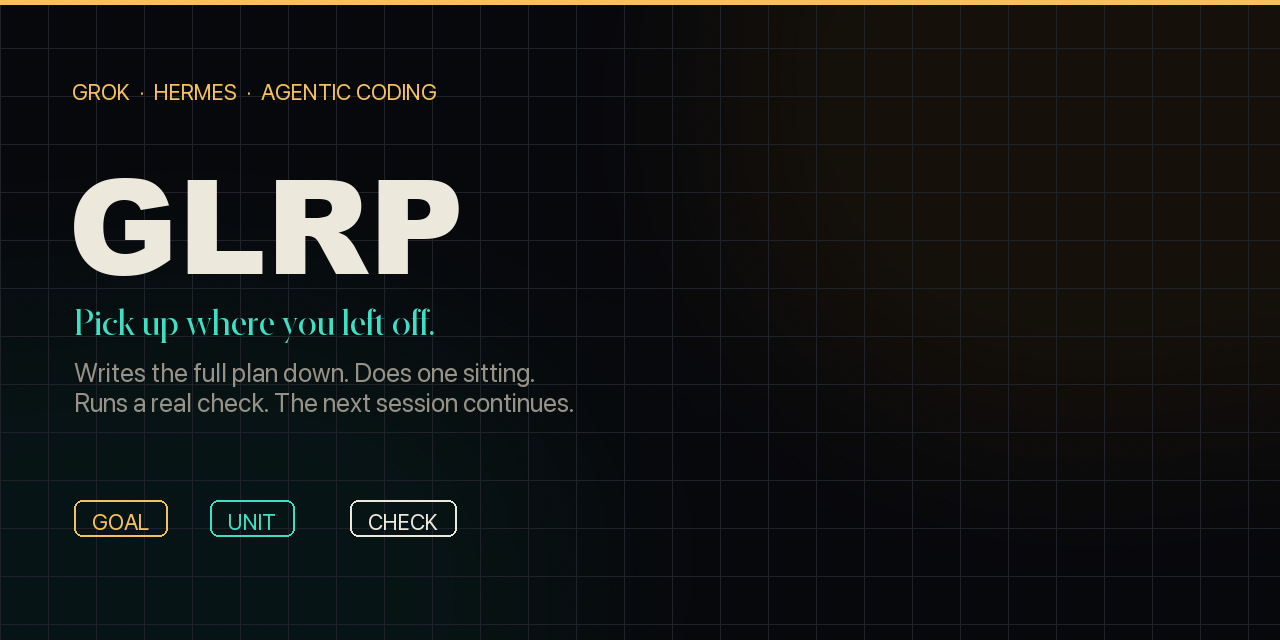
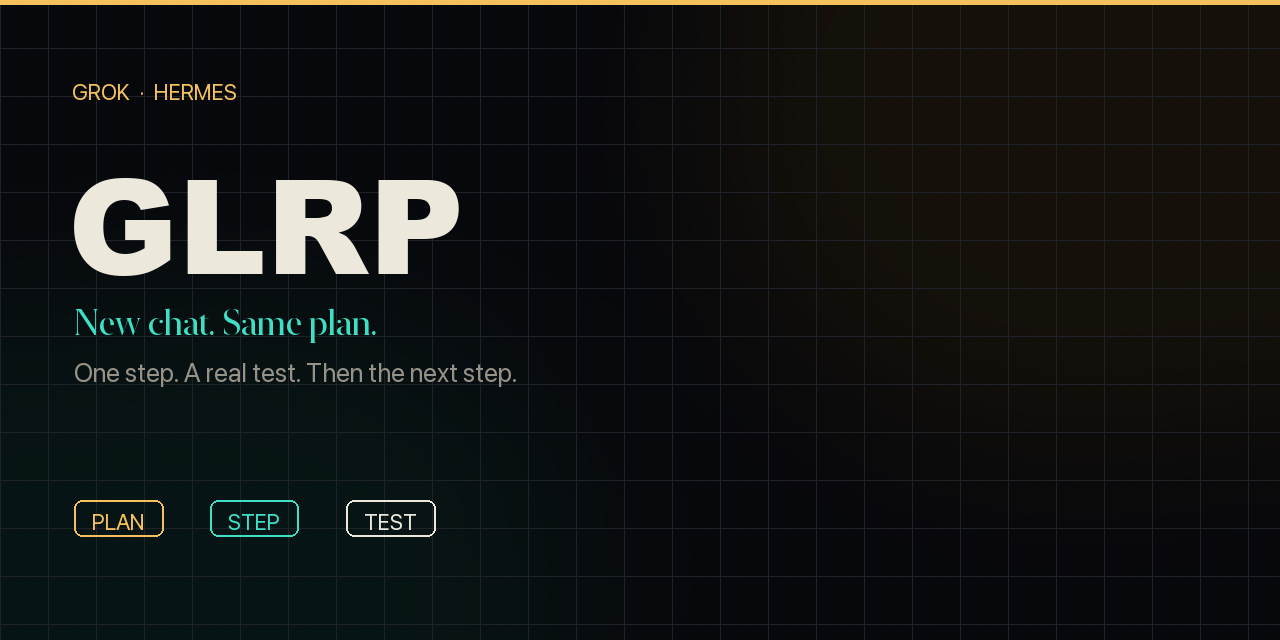
Plain-language README; punchier New chat. Same plan. cards

diff --git a/docs/make_art.py b/docs/make_art.py
@@ -77,23 +77,23 @@ def social() -> Path:
     kicker = font(F_SANS, 22)
     title = font(F_DISPLAY, 132)
     sub = font(F_SERIF, 36)
-    draw.text((72, 78), "GROK  ·  HERMES  ·  AGENTIC CODING", font=kicker, fill=AMBER)
+    draw.text((72, 78), "GROK  ·  HERMES", font=kicker, fill=AMBER)
     draw.text((68, 128), "GLRP", font=title, fill=INK)
     draw.text(
         (74, 300),
-        "Pick up where you left off.",
+        "New chat. Same plan.",
         font=sub,
         fill=TEAL,
     )
     draw.text(
         (74, 356),
-        "Writes the full plan down. Does one sitting.\nRuns a real check. The next session continues.",
+        "One step. A real test. Then the next step.",
         font=font(F_SANS, 26),
         fill=MUTED,
     )
-    chip(draw, (74, 500), "GOAL", AMBER)
-    chip(draw, (210, 500), "UNIT", TEAL)
-    chip(draw, (350, 500), "CHECK", INK)
+    chip(draw, (74, 500), "PLAN", AMBER)
+    chip(draw, (210, 500), "STEP", TEAL)
+    chip(draw, (346, 500), "TEST", INK)
     path = OUT / "social.png"
     img.save(path, "PNG", optimize=True)
     return path
@@ -104,16 +104,16 @@ def banner() -> Path:
     img, draw = base(w, h)
     draw.text((96, 90), "FOR GROK BUILD AND HERMES", font=font(F_SANS, 28), fill=AMBER)
     draw.text((88, 150), "GLRP", font=font(F_DISPLAY, 180), fill=INK)
-    draw.text((100, 380), "Pick up where you left off.", font=font(F_SERIF, 52), fill=TEAL)
+    draw.text((100, 380), "New chat. Same plan.", font=font(F_SERIF, 52), fill=TEAL)
     draw.text(
         (100, 460),
-        "Number the work. Do one sitting. Run a check that can fail.\nClose it. The next session already knows what’s next.",
+        "One step. A real test. Then the next step.",
         font=font(F_SANS, 32),
         fill=MUTED,
     )
-    chip(draw, (100, 640), "GOAL.md", AMBER)
-    chip(draw, (300, 640), "UNIT.md", TEAL)
-    chip(draw, (500, 640), "check.py", INK)
+    chip(draw, (100, 640), "PLAN", AMBER)
+    chip(draw, (250, 640), "STEP", TEAL)
+    chip(draw, (400, 640), "TEST", INK)
     path = OUT / "banner.png"
     img.save(path, "PNG", optimize=True)
     return path

diff --git a/README.md b/README.md
@@ -1,5 +1,5 @@
 <p align="center">
-  <img src="docs/banner.png" alt="GLRP — Pick up where you left off." width="100%">
+  <img src="docs/banner.png" alt="GLRP — New chat. Same plan." width="100%">
 </p>
 
 <p align="center">
@@ -9,41 +9,38 @@
   <a href="#tests"><img src="https://img.shields.io/badge/tests-unittest-e8e4dc?labelColor=07080c" alt="tests"></a>
 </p>
 
-<p align="center"><b>GLRP keeps a coding agent on one sitting of work — and hands the next sitting to the next session.</b></p>
-
 <p align="center">A skill for <a href="https://x.ai/build">Grok Build</a> and <a href="https://hermes-agent.nousresearch.com/">Hermes Agent</a>.</p>
 
 ---
 
-## What it does
+## Why this exists
 
-You dump a messy product brief. GLRP turns that into a numbered plan, picks **one** sitting, and ties it to a command that can fail. When the sitting is green, it closes that number and writes the next one down.
+Long coding sessions with Grok keep dying. New chat = forgot the plan. Or it “continues” by building the wrong thing.
 
-A new chat opens cold. It reads the two files, does the current number, and stops. The plan lives on disk, so the work can run across days.
+## What this is
 
-**In one line:** remember what’s next, do only that, prove it.
+A tiny skill. It writes the plan as a numbered list, does **one** step, runs a real test, writes down the next step. Next chat reads that file and keeps going.
 
-## How it works
+## How
 
 ```mermaid
 flowchart LR
-  A[activate] --> B[GOAL.md numbered plan]
-  B --> C[UNIT.md this sitting]
-  C --> D[check.py]
-  D -->|keep going| C
-  D -->|green| E[close_unit.py]
-  E --> F[next number]
-  F --> C
+  A[activate] --> B[numbered plan]
+  B --> C[one step]
+  C --> D[real test]
+  D -->|not yet| C
+  D -->|green| E[write the next step]
+  E --> C
 ```
 
-| File | What the agent uses it for |
-|------|----------------------------|
-| `.glrp/GOAL.md` | The whole product, numbered. Later corrections replace earlier ones. |
-| `.glrp/UNIT.md` | The sitting in progress — files, behavior, how we’ll know it’s done. |
-| `.glrp/progress.txt` | Closed numbers, so the next session doesn’t rewind. |
-| `.glrp/config.toml` | `verify` — your real project check (`pytest`, `unittest`, a script). |
+| File | Job |
+|------|-----|
+| `.glrp/GOAL.md` | The whole plan, numbered. |
+| `.glrp/UNIT.md` | The one step happening now. |
+| `.glrp/progress.txt` | Steps already done. |
+| `.glrp/config.toml` | `verify` — your real test command. |
 
-Four scripts drive the loop: `activate.py`, `next.py`, `check.py`, `close_unit.py`.
+Scripts: `activate.py` · `next.py` · `check.py` · `close_unit.py`
 
 ## Install
 
@@ -52,17 +49,17 @@ git clone https://github.com/msinclair25/glrp.git
 bash glrp/install.sh
 ```
 
-Installs to `~/.grok/skills/glrp/` and `~/.hermes/skills/glrp/` when those homes exist. Start a **new session** so the skill loads.
+Puts the skill in `~/.grok/skills/glrp/` and `~/.hermes/skills/glrp/` when those folders exist. Start a **new session** so it loads.
 
 ## Use
 
 In a git project:
 
 1. Say `activate glrp` or `/glrp`.
-2. Point `verify` at a real check: `verify = "pytest -q"`.
-3. Paste the brief. The skill numbers `GOAL.md` and aims `UNIT.md` at sitting one.
-4. It implements that sitting, runs `check.py`, and closes when green.
-5. Next session: `next.py` first, then only the current number.
+2. Set `verify = "pytest -q"` (or whatever actually tests your project).
+3. Paste the brief. It numbers the plan and starts step one.
+4. It does that step, runs the test, writes the next step.
+5. Next chat: it reads the file and continues.
 
 ```
 skill/scripts/   activate.py  next.py  check.py  close_unit.py
